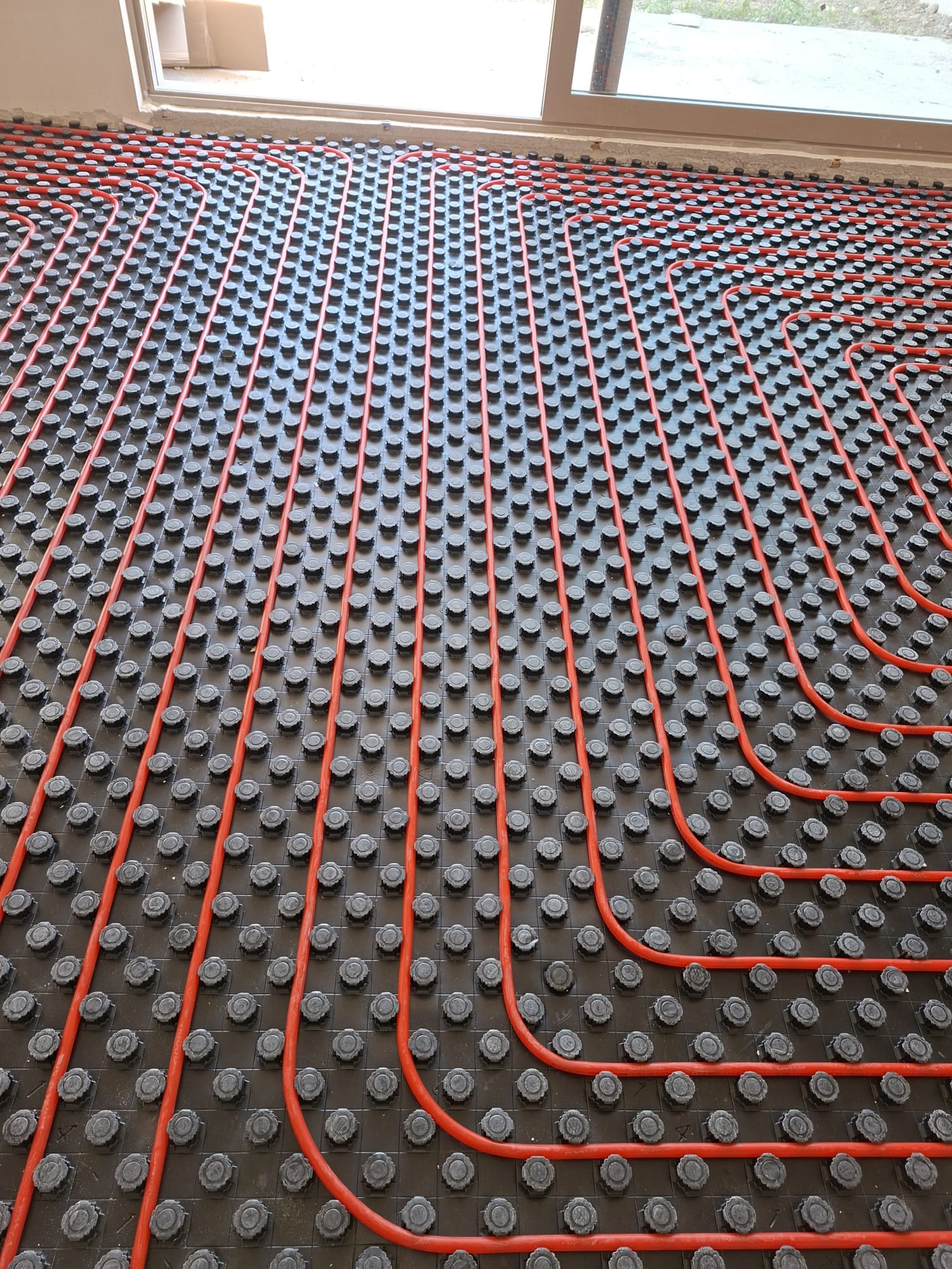
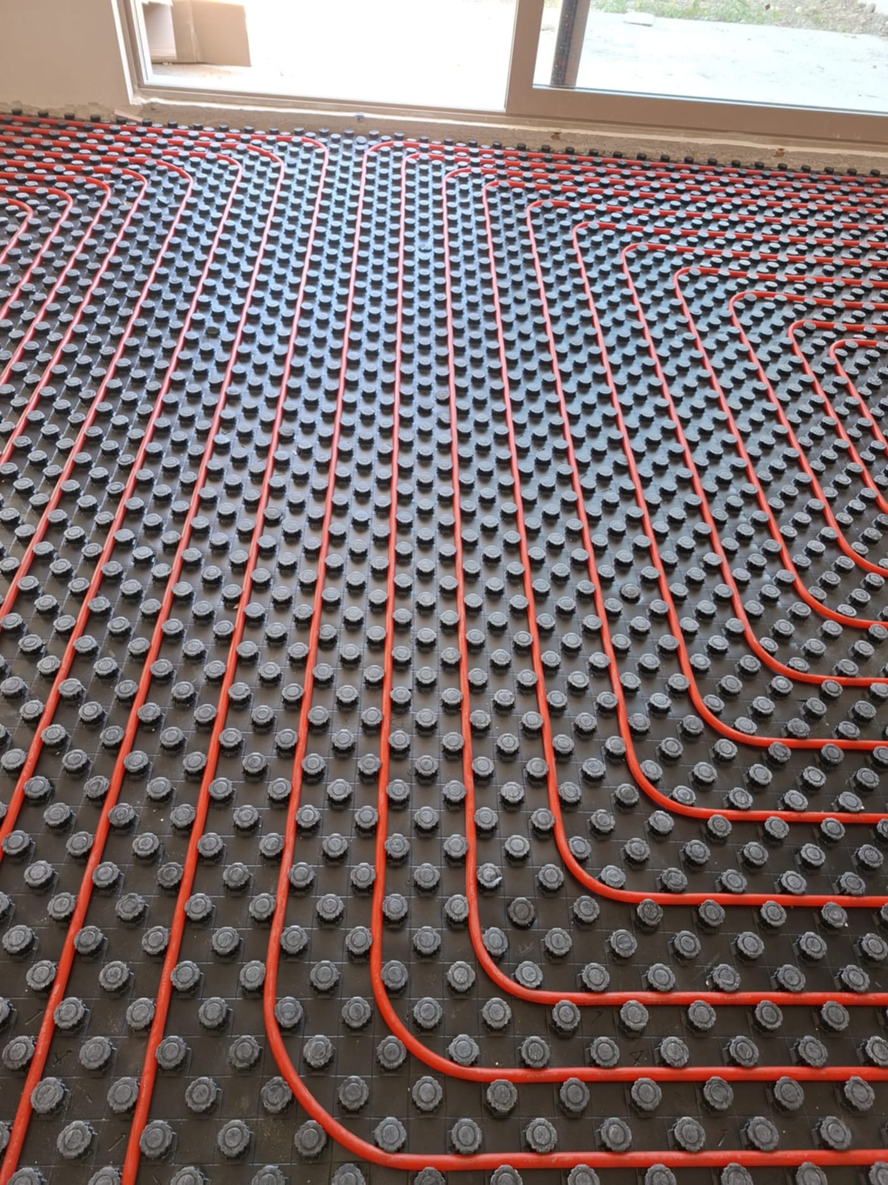
Fontovi s vlastitog servera, CSS inline, lakši hero, a11y sitnice
Fontovi preko fontsource paketa umjesto Google Fontsa (bez tuđeg
zahtjeva prije prvog prikaza, preload za display i body face). Sav CSS
inline u HTML — cPanel bez edge cachea, svaki vanjski CSS bio je
blokirajući round-trip. Hero fotka omekšana u izvoru i servirana na
nižoj kvaliteti: 380 KB → ~100 KB na mobitelu, pod gradeom nevidljivo.
Honeypot polja aria-hidden, "Istraži" bez proturječnog aria-labela.
Lighthouse mobitel: perf 62 → 70, a11y 96 → 100, SEO 100, BP 100.

Claude-Session: https://claude.ai/code/session_01AAJ1UhRuW7FtdyFva2boHn

Changed region(s): [[0.7679, 0.1553, 0.9214, 0.1864], [0.9829, 0.1864, 1.0, 0.2175], [0.7064, 0.1553, 0.7371, 0.1864]]

diff --git a/src/styles/global.css b/src/styles/global.css
@@ -61,8 +61,8 @@
   --color-accent: var(--accent);
   --color-accent-ink: var(--accent-ink);
 
-  --font-display: 'Bricolage Grotesque', ui-sans-serif, system-ui, sans-serif;
-  --font-body: 'Inter', ui-sans-serif, system-ui, sans-serif;
+  --font-display: 'Bricolage Grotesque Variable', ui-sans-serif, system-ui, sans-serif;
+  --font-body: 'Inter Variable', ui-sans-serif, system-ui, sans-serif;
   --font-mono: 'Space Mono', ui-monospace, monospace;
 
   /* Fluid type scale */
